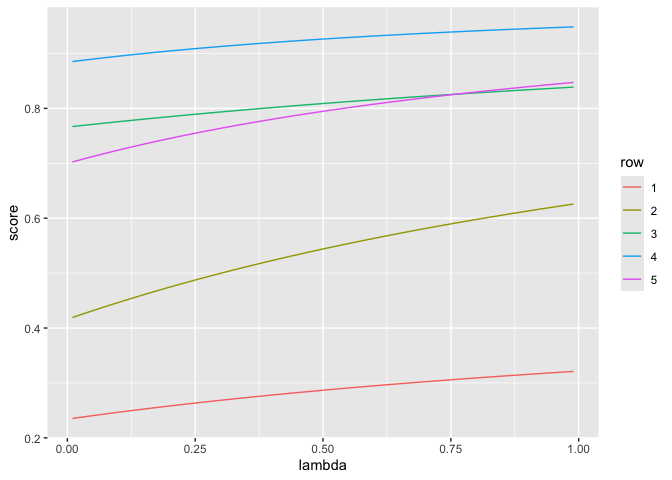
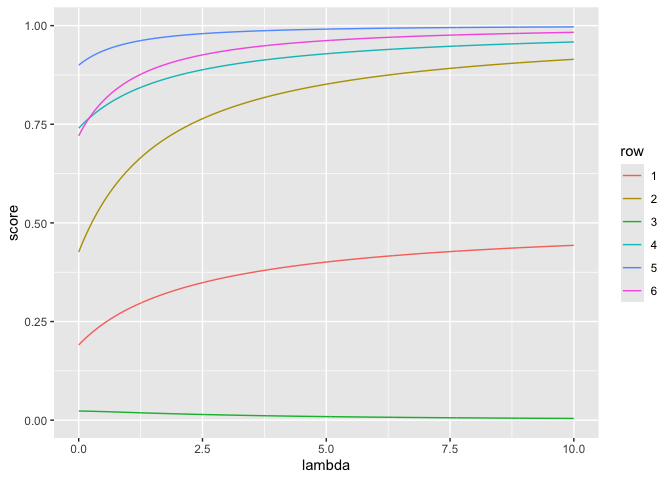
work on example

diff --git a/rebalance/traj_graph_2.md b/rebalance/traj_graph_2.md
@@ -19,6 +19,7 @@ d_ex <- wrapr::build_frame(
    "x1"  , "x2", "y" |
      0   , 0   , 0   |
      1   , 0   , 1   |
+     -2   , 0   , 0   |
      0   , 2   , 1   |
      1   , 2   , 1   |
      1   , 1   , 0   )
@@ -30,6 +31,7 @@ knitr::kable(d_ex)
 |----:|----:|----:|
 |   0 |   0 |   0 |
 |   1 |   0 |   1 |
+|  -2 |   0 |   0 |
 |   0 |   2 |   1 |
 |   1 |   2 |   1 |
 |   1 |   1 |   0 |
@@ -42,7 +44,7 @@ is_non_decreasing <- function(x) {all(x == cummax(x))}
 ``` r
 frames <- list()
 suppressWarnings(
-  for(lambda in seq(0.01, 0.99, length.out = 100)) {
+  for(lambda in seq(0, 10.0, length.out = 1000)) {
     model <- glm(y ~ x1 + x2, family=binomial(), data=d_ex, weights = 1 + lambda * d_ex$y)
     preds <- predict(model, type='response', newdata=d_ex)
     row_frame <- as.data.frame(t(as.matrix(preds)))
@@ -51,14 +53,11 @@ suppressWarnings(
   }
 )
 frames <- do.call(rbind, frames)
-for(col in colnames(frames)) { stopifnot(is_non_decreasing(frames[[col]])) }
 plot_dat <- data.frame(data.table::melt(
   data.table(frames), 
   variable.name = 'row',
   value.name = 'score',
   id.vars='lambda'))
-plot_dat['logit(lambda)'] = logit(plot_dat['lambda'])
-plot_dat['logit(score)'] = logit(plot_dat['score'])
 ```
 
 ``` r
@@ -70,13 +69,3 @@ ggplot(
 ```
 
 ![](traj_graph_2_files/figure-gfm/unnamed-chunk-5-1.png)<!-- -->
-
-``` r
-ggplot(
-  data=plot_dat,
-  mapping=aes(x=`logit(lambda)`, y=`logit(score)`, color=row)
-) +
-  geom_line()
-```
-
-![](traj_graph_2_files/figure-gfm/unnamed-chunk-6-1.png)<!-- -->
